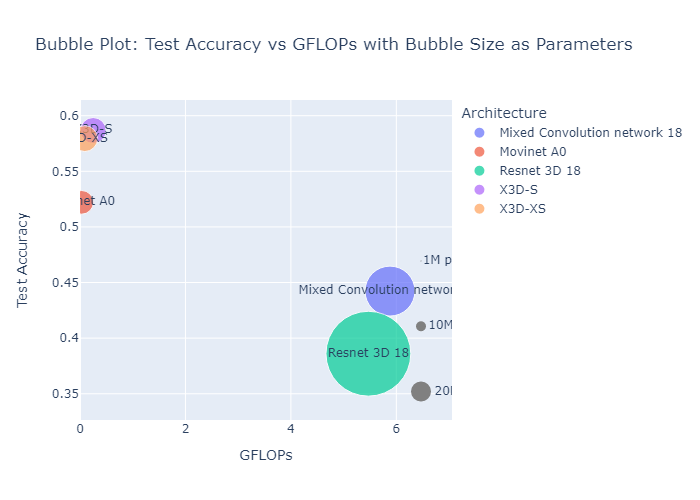
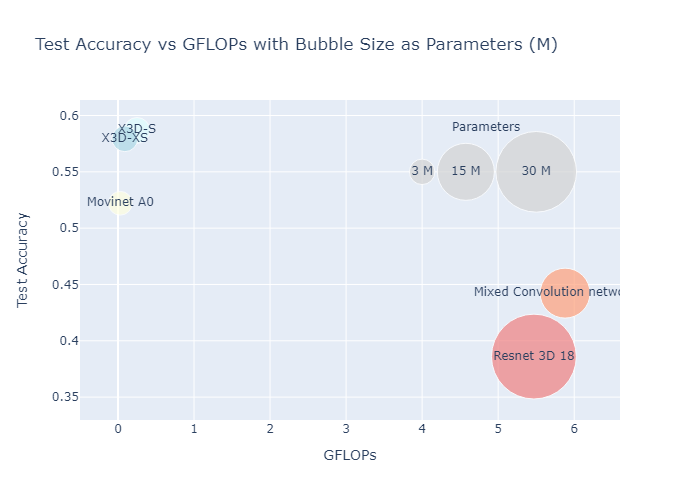
Bubble diagram finished

diff --git a/W6/scripts/bubble_diagram.py b/W6/scripts/bubble_diagram.py
@@ -1,55 +1,51 @@
 import pandas as pd
 import plotly.express as px
-import plotly.graph_objects as go  # Import for more control over the figures
 
 # Load your data
-data = pd.read_csv('convertcsv.csv')
+data = pd.read_csv('convertcsv_patch.csv')
 data['Test accuracy (%)'] = data['Test accuracy (%)'].str.replace('%', '').astype(float)
 data['Test accuracy (%)'] /= 100  # Convert to a fraction for plotting
+data['Parameters (M)'] = data['Parameters (M)'].astype(float)  # Ensure this is correctly scaled as needed
 
-# Aggregate data to find the best test accuracy for each architecture
-grouped_data = data.groupby('Architecture').agg({
+# Aggregate data to find the best test accuracy for each model
+grouped_data = data.groupby('Name').agg({
     'Test accuracy (%)': 'max',
     'Parameters (M)': 'first',
-    'FLOPs (G)': 'first'
+    'FLOPs (G)': 'first',
+    'Color': 'first'  # Ensure colors are in a format Plotly can understand (e.g., HEX, RGB)
 }).reset_index()
 
-# Create the Bubble plot with color differentiation and labels
+# Create the Bubble plot
 fig = px.scatter(
     grouped_data,
     x='FLOPs (G)',
     y='Test accuracy (%)',
     size='Parameters (M)',
-    color='Architecture',  # This assigns a unique color to each architecture
-    hover_name='Architecture',
-    text='Architecture',  # Displays the architecture name on the bubbles
-    title='Bubble Plot: Test Accuracy vs GFLOPs with Bubble Size as Parameters',
+    hover_name='Name',
+    text='Name',  # Displays the model name on the bubbles
+    title='Test Accuracy vs GFLOPs with Bubble Size as Parameters (M)',
     labels={'FLOPs (G)': 'GFLOPs', 'Test accuracy (%)': 'Test Accuracy', 'Parameters (M)': 'Parameters (M)'},
     size_max=60
 )
 
-# Manually add size annotations
-sizes = [1, 10, 20]  # Example sizes: adjust these based on your actual parameter sizes
-for size in sizes:
-    fig.add_trace(go.Scatter(
-        x=[max(grouped_data['FLOPs (G)']) * 1.1],  # Position the legend to the right of the data
-        y=[max(grouped_data['Test accuracy (%)']) * (0.8 - 0.1 * sizes.index(size))],  # Position vertically
-        text=[f'{size}M parameters'],
-        mode='markers+text',
-        marker=dict(size=size, color='gray'),
-        showlegend=False,
-        textposition="middle right"
-    ))
+# Set colors manually from 'Color' column if not applying automatically
+fig.update_traces(marker=dict(color=grouped_data['Color']))
+
+# Add 'Parameters' text annotation at a specified position
+fig.add_annotation(
+    x=4.85, y=0.59,
+    text='Parameters',
+    showarrow=False,
+    font=dict(size=12)
+)
 
 # Adjust layout
 fig.update_layout(
-    xaxis_range=[0, max(grouped_data['FLOPs (G)']) * 1.2],  # Extend x-axis to fit annotations
-    showlegend=True,
-    legend_title_text='Architecture'
+    showlegend=False  # Disable the legend if it is not needed
 )
 
-# Show the figure
-fig.show()
+# Display the figure
+# fig.show()
 
-# Save the plot as a PNG image
+# Optionally save the plot as a PNG image
 fig.write_image('bubble_plot.png')
